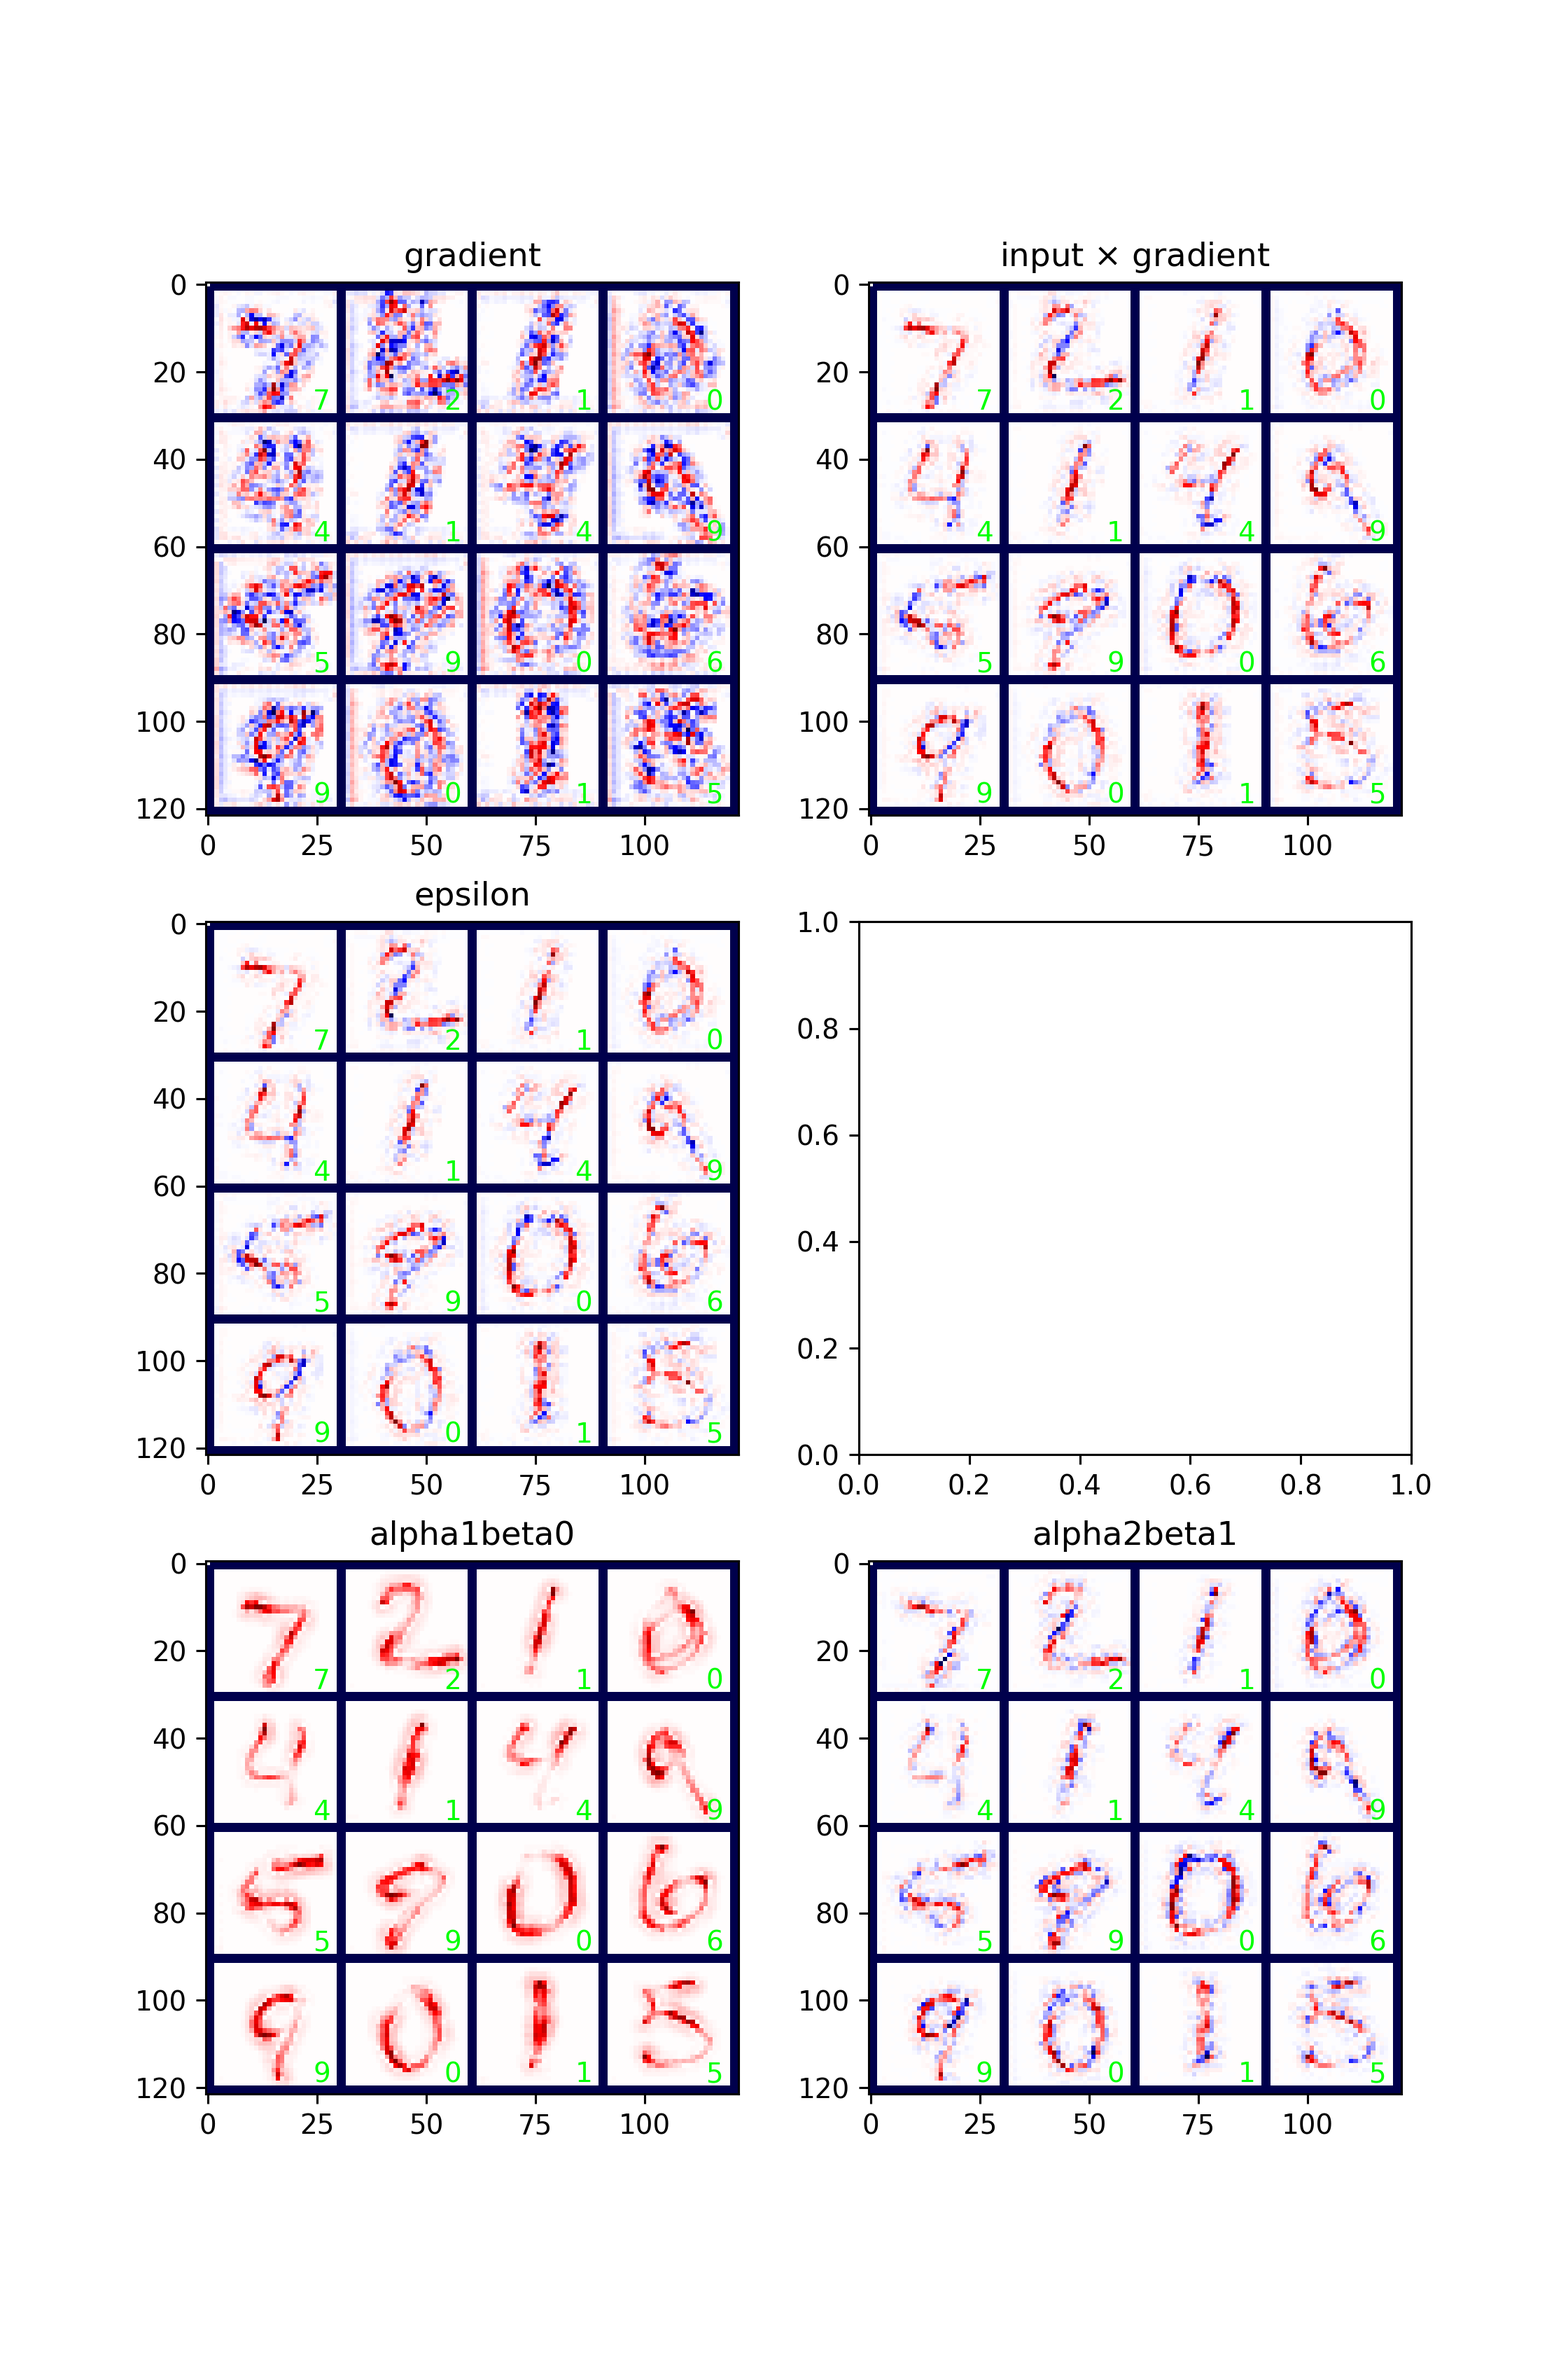
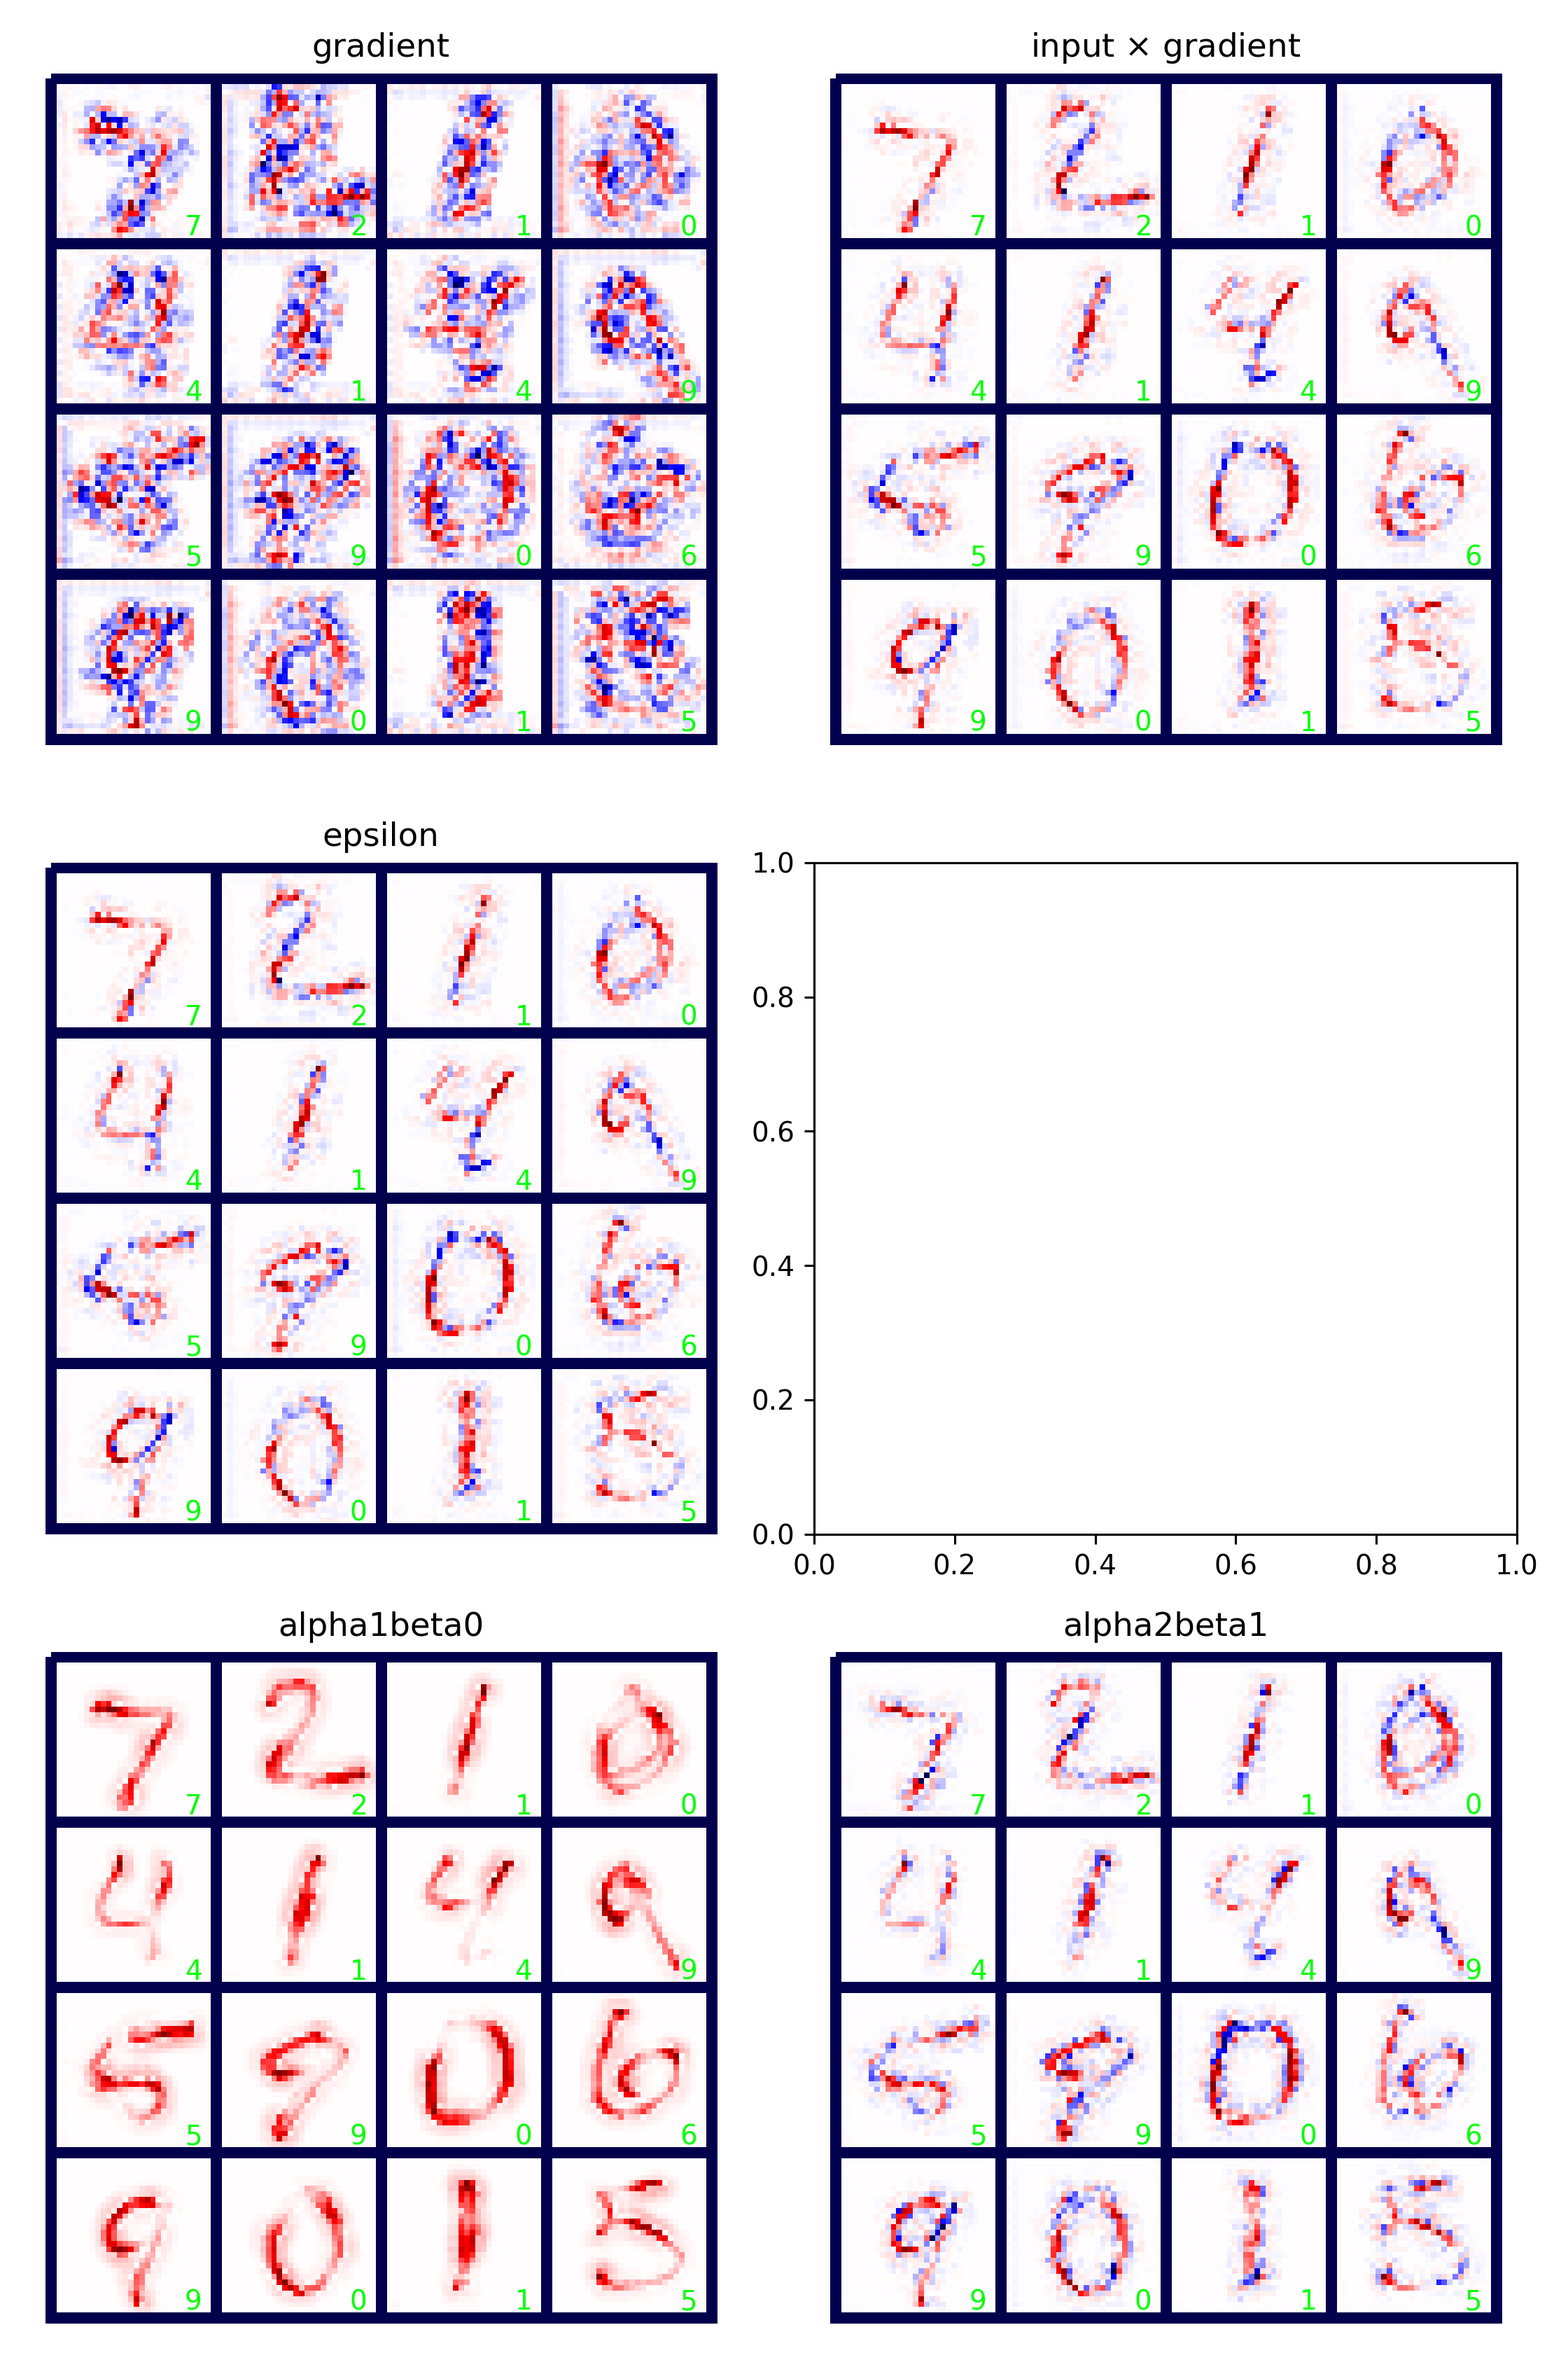
Removed plot axis and added tight layout to plot

diff --git a/examples/explain_mnist.py b/examples/explain_mnist.py
@@ -21,6 +21,7 @@ def prepare_batch_for_plotting(a, nrow=4):
 
 def plot_attribution(a, ax_, preds, title):
     ax_.imshow(a)
+    ax_.axis('off')
     cols = (a.shape[1] - 2) // 30
     rows = (a.shape[0] - 2) // 30
     for i in range(rows):
@@ -68,6 +69,9 @@ run_and_plot_rule("gradient", ax[0, 1], title="input $\\times$ gradient", postpr
 run_and_plot_rule("epsilon", ax[1, 0])
 run_and_plot_rule("alpha1beta0", ax[2, 0])
 run_and_plot_rule("alpha2beta1", ax[2, 1])
+
+
+fig.tight_layout()
 
 fig.savefig("Example_explanations.png", dpi=280)
 plt.show()
